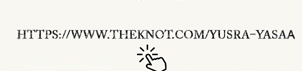
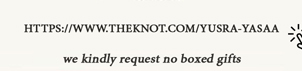
Adding text

Changed region(s): [[0.0596, 0.338, 1.0, 0.7042], [0.2086, 0.6197, 0.8046, 1.0]]

diff --git a/index.html b/index.html
@@ -1,6 +1,6 @@
 <html>
 <head>
-<title>You're Invited!</title>
+<title>Wedding Invitation</title>
 <meta http-equiv="Content-Type" content="text/html; charset=iso-8859-1">
 </head>
 <body bgcolor="#FFFFFF" leftmargin="0" topmargin="0" marginwidth="0" marginheight="40">
